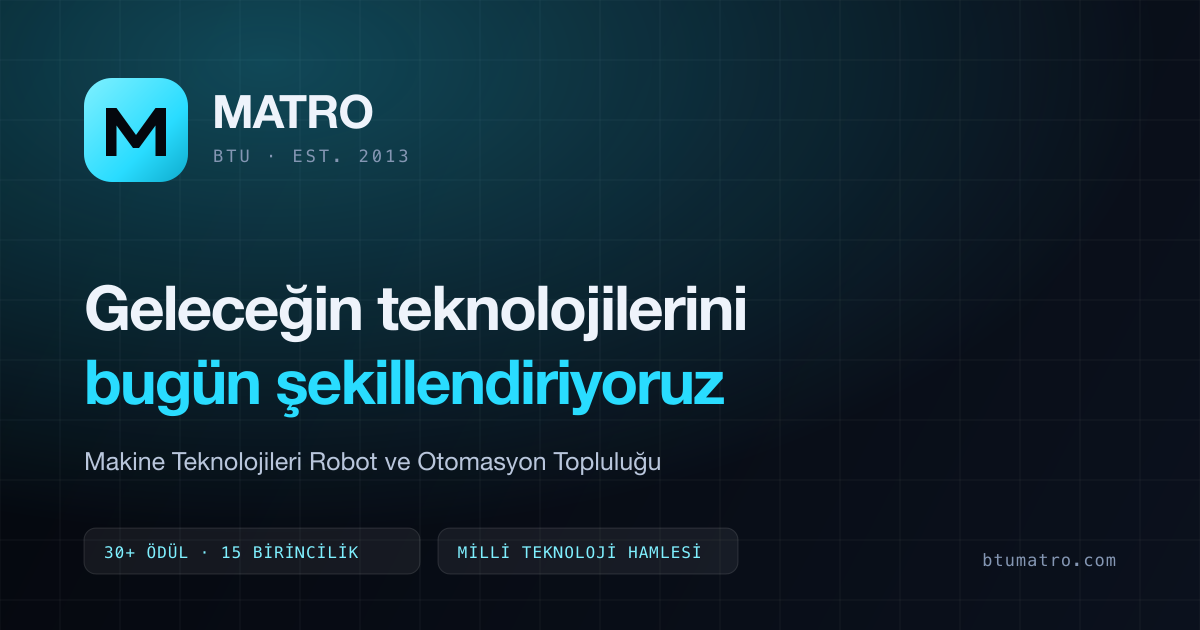
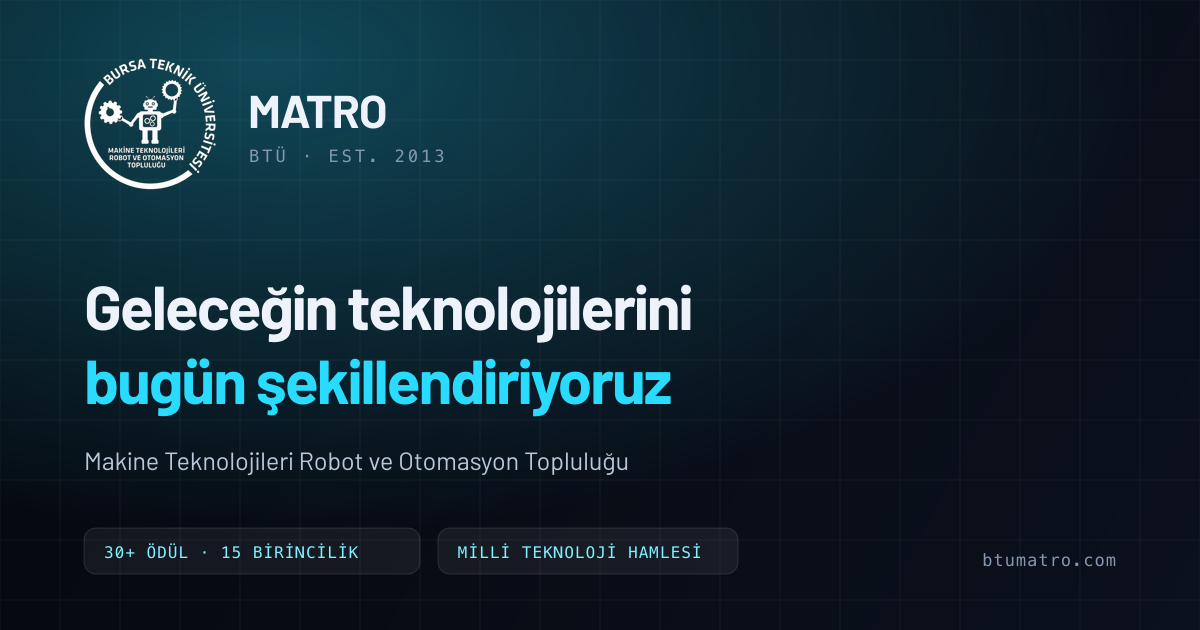
Gerçek MATRO ve BTÜ logolarını, kurumsal yazı tipini uygula
- Topluluğun kendi logo dosyaları src/assets/logo-kaynak/ altına alındı
- Header, footer, favicon ve OG görselinde geometrik yer tutucu yerine
  gerçek MATRO rozeti kullanılıyor (koyu zemin için beyaz varyant)
- BTÜ kurumsal kimlik sayfasındaki resmi beyaz yatay logo footer'a eklendi
- Başlıklarda üniversitenin kurumsal fontu Barlow, gövdede Inter
- scripts/make-brand.mjs: logo, favicon ve iOS simgesini kaynaktan üretir

diff --git a/src/styles/global.css b/src/styles/global.css
@@ -24,8 +24,11 @@
   --color-medal-400: #ffc247;
   --color-medal-500: #f5a300;
 
-  /* ---- Tipografi ---- */
+  /* ---- Tipografi ----
+     Barlow, Bursa Teknik Üniversitesi'nin kurumsal yazı tipidir; başlıklarda
+     kullanılır. Gövde metinlerinde ekran okunabilirliği için Inter tercih edilir. */
   --font-sans: 'Inter Variable', ui-sans-serif, system-ui, -apple-system, 'Segoe UI', sans-serif;
+  --font-display: 'Barlow', 'Inter Variable', ui-sans-serif, system-ui, sans-serif;
   --font-mono: 'JetBrains Mono Variable', ui-monospace, 'SFMono-Regular', monospace;
 
   /* ---- Diğer ---- */
@@ -69,8 +72,9 @@
   h2,
   h3,
   h4 {
+    font-family: var(--font-display);
     text-wrap: balance;
-    letter-spacing: -0.025em;
+    letter-spacing: -0.015em;
   }
 
   p {

diff --git a/README.md b/README.md
@@ -144,11 +144,16 @@ npm run dev
 npm run build
 ```
 
-### Sosyal medya önizleme görselini yeniden üret
+### Logo ve marka görsellerini yeniden üret
+
+Logo dosyaları değişirse `src/assets/logo-kaynak/` içindekileri güncelle, sonra:
 
 ```bash
-node scripts/make-og.mjs public/og.png
+node scripts/make-brand.mjs && node scripts/make-og.mjs
 ```
+
+Bu iki betik `public/` altındaki logo, favicon, iOS simgesi ve sosyal medya önizleme
+görsellerini kaynak dosyalardan yeniden üretir.
 
 ### Teknoloji yığını
 
@@ -168,9 +173,14 @@ astro.config.mjs         Astro yapılandırması
 .github/workflows/       Otomatik yayın (GitHub Actions)
 public/
   media/                 Panelden yüklenen görseller
-  og.png                 Sosyal medya önizleme görseli
-scripts/make-og.mjs      OG görselini üreten betik
+  logo-*.png             Üretilen logolar (elle düzenlemeyin)
+  favicon.png            Sekme simgesi (üretilir)
+  og.png                 Sosyal medya önizleme görseli (üretilir)
+scripts/
+  make-brand.mjs         Logo, favicon ve simgeleri üretir
+  make-og.mjs            Sosyal medya önizleme görselini üretir
 src/
+  assets/logo-kaynak/    Orijinal logo dosyaları (kaynak)
   data/*.json            Tekil sayfa içerikleri
   content/teams/*.md     Takım sayfaları
   content/activities/*.md Faaliyetler
@@ -180,9 +190,15 @@ src/
   styles/global.css      Renk paleti ve tipografi
 ```
 
-### Renkleri değiştirmek
+### Renkleri ve yazı tiplerini değiştirmek
 
-`src/styles/global.css` içindeki `@theme` bloğu tüm paleti tanımlar. Oradaki değerleri değiştirmek tüm siteyi etkiler.
+`src/styles/global.css` içindeki `@theme` bloğu tüm paleti ve tipografiyi tanımlar. Oradaki değerleri değiştirmek tüm siteyi etkiler.
+
+### Marka kullanımı
+
+- **MATRO logosu:** Koyu zeminlerde beyaz varyant (`logo-matro-beyaz.png`), açık zeminlerde renkli varyant (`logo-matro.png`) kullanılır. Kaynak dosyaların tamamı `src/assets/logo-kaynak/` altındadır.
+- **BTÜ logosu:** [btu.edu.tr kurumsal kimlik sayfasındaki](https://btu.edu.tr/tr/sayfa/detay/3401/kurumsal-kimlik) resmi dosyalardır. Footer'da beyaz yatay sürüm kullanılır.
+- **Yazı tipi:** Başlıklarda üniversitenin kurumsal fontu **Barlow**, gövde metinlerinde ekran okunabilirliği için **Inter**, teknik etiket ve sayılarda **JetBrains Mono** kullanılır. Üçü de npm paketi olarak sitede barındırılır; dışarıya font isteği gitmez.
 
 ---
 
